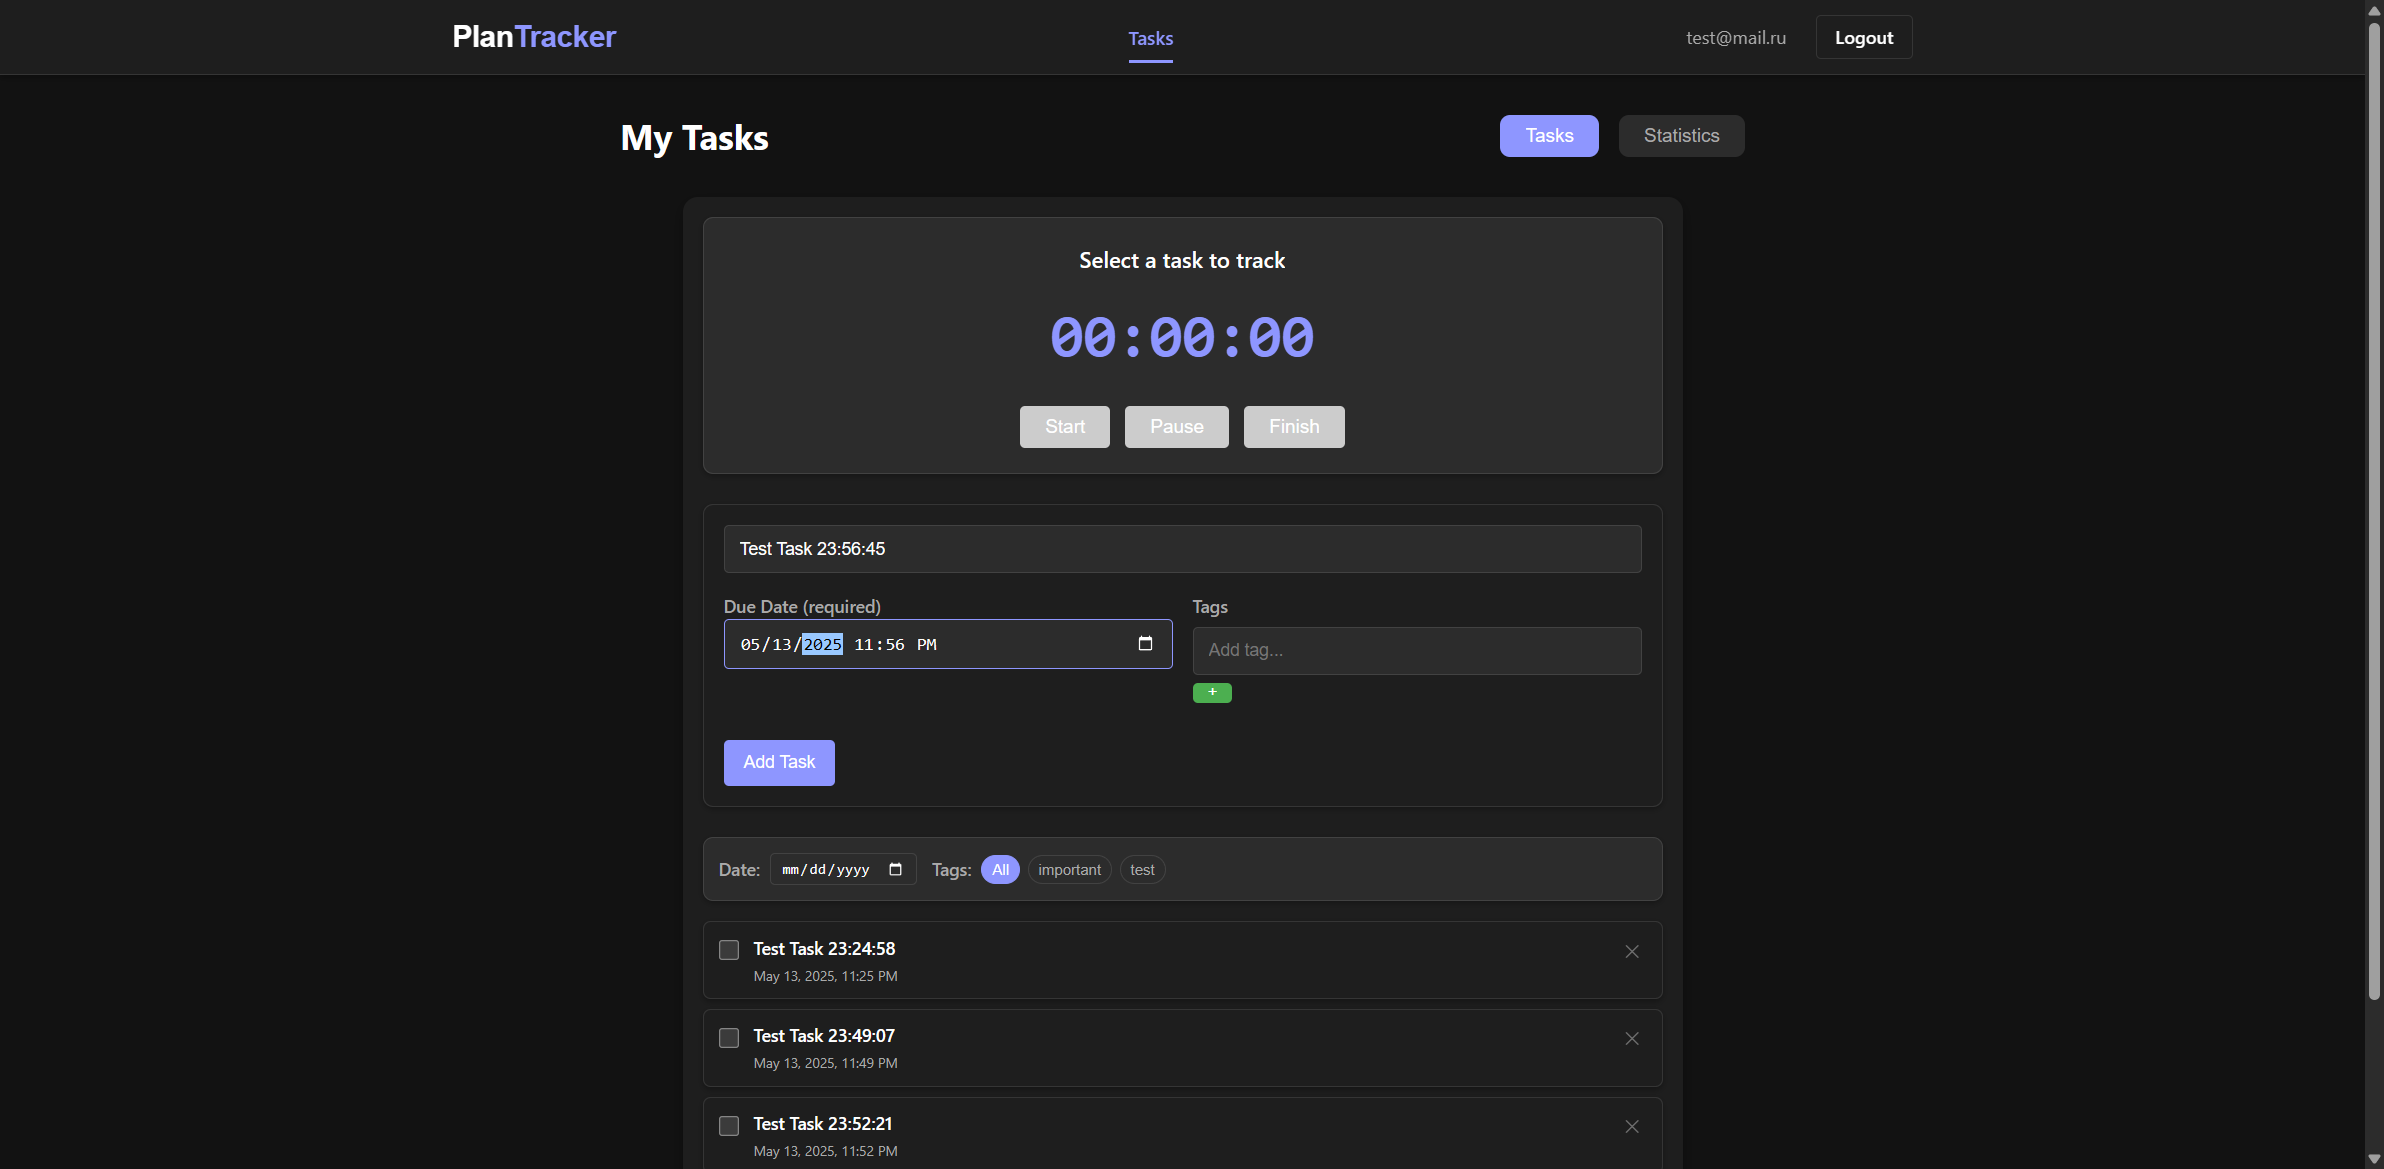
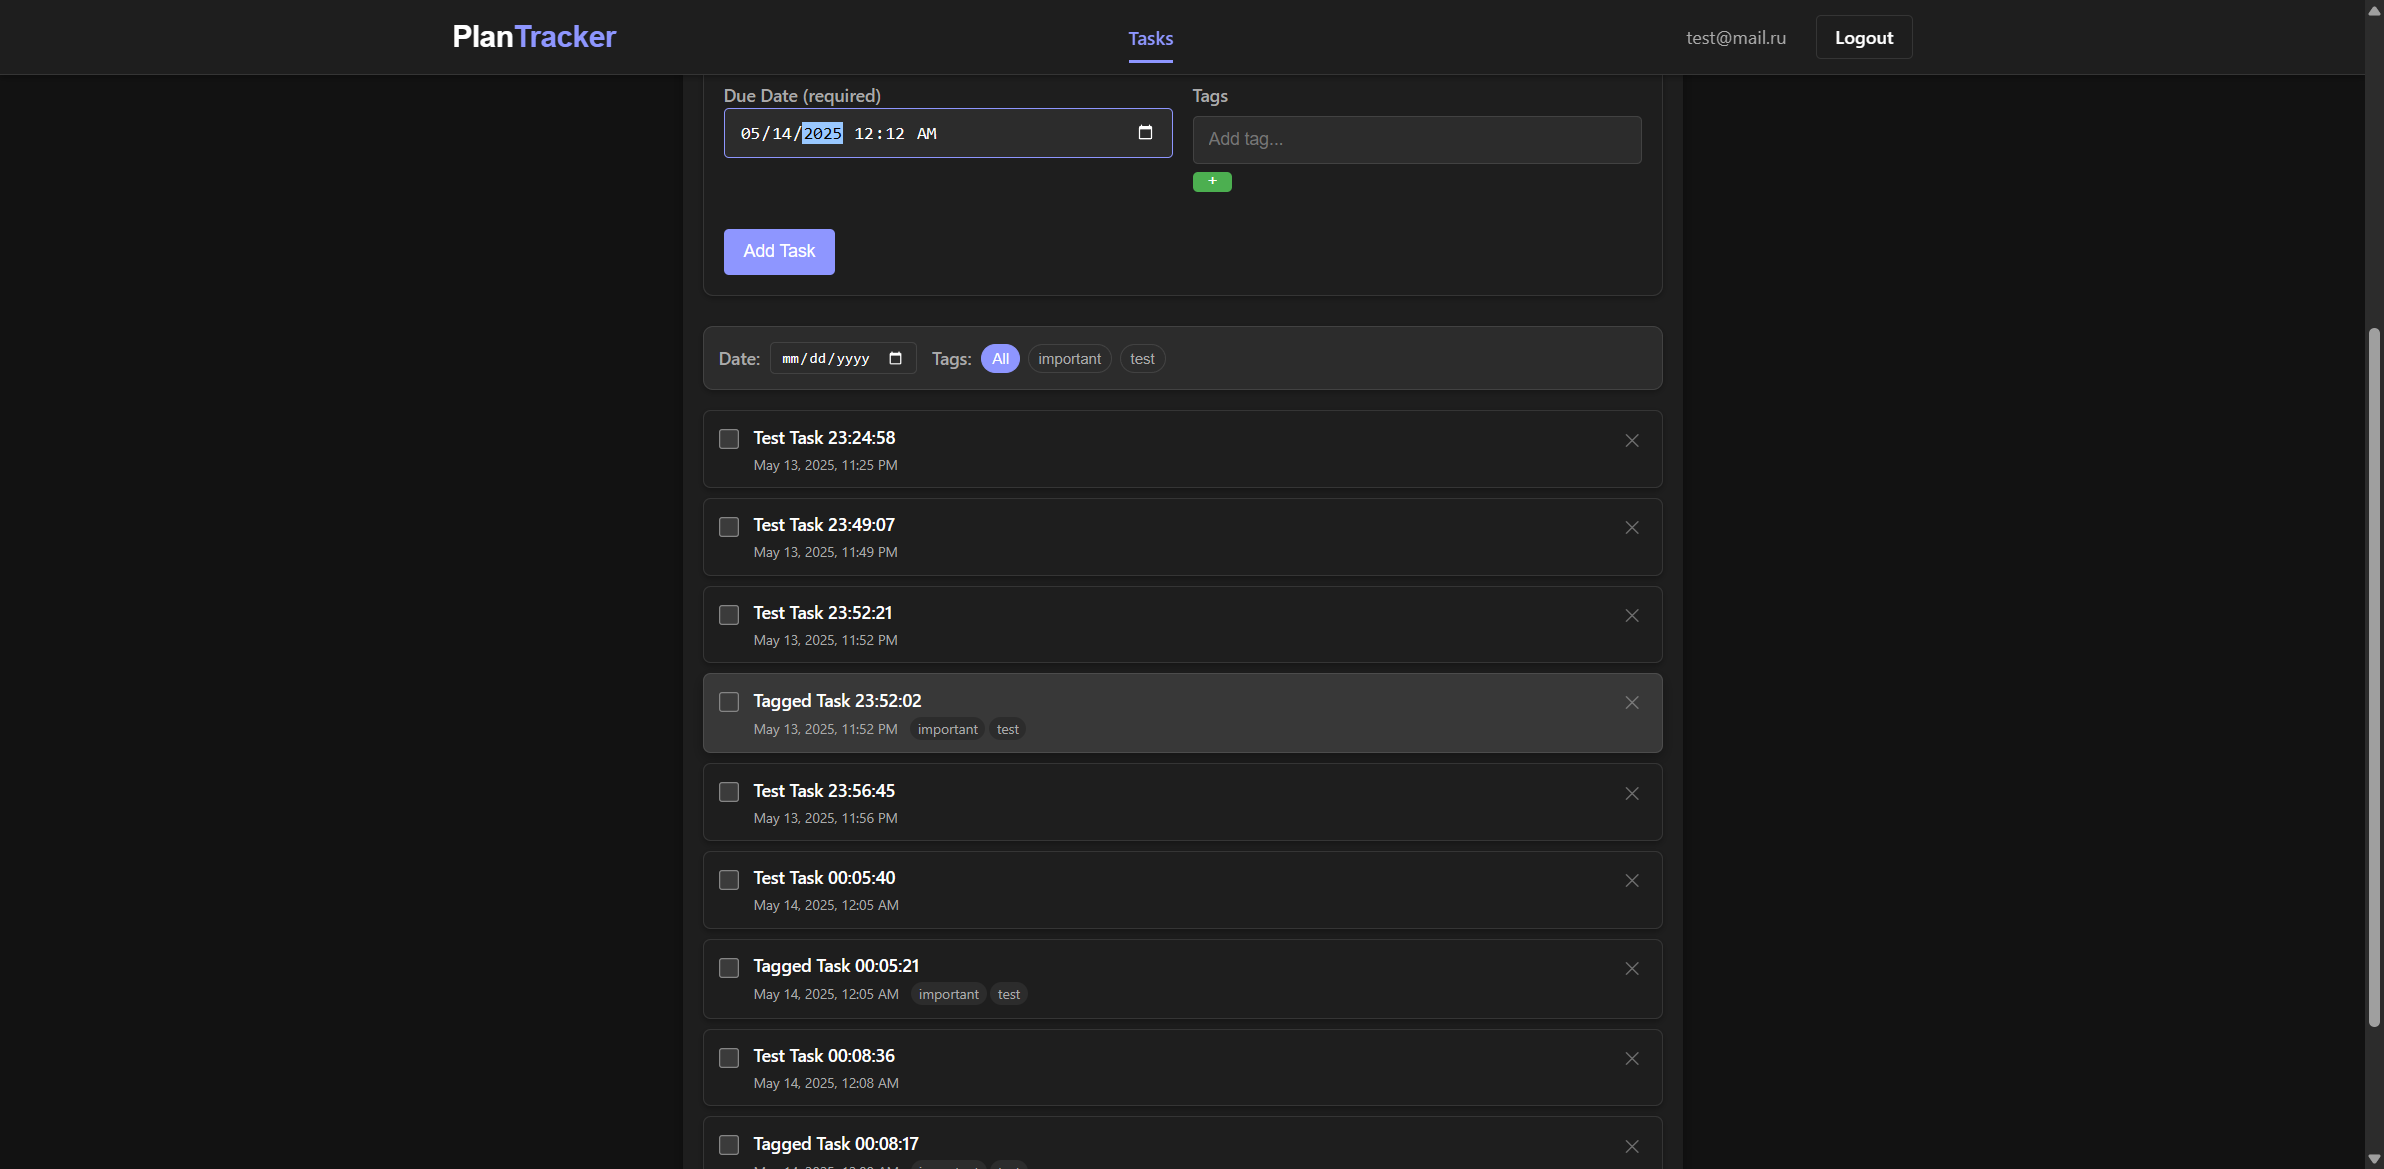
fix: e2e_tests fixed

diff --git a/frontend/e2e_tests/tests/test_tasks.py b/frontend/e2e_tests/tests/test_tasks.py
@@ -80,6 +80,37 @@ class TestTasks:
         current_count = tasks_page.get_task_count()
         assert current_count == initial_count, "Task should not be added with empty name"
     
+    def test_create_task_with_tags(self, driver: WebDriver):
+        """
+        Test scenario: Create a task with tags
+        Expected: Task is added with tags displayed
+        """
+        # Initialize the tasks page and navigate to it
+        tasks_page = TasksPage(driver).navigate()
+        
+        # Generate a unique task title with timestamp
+        task_title = f"Tagged Task {datetime.now().strftime('%H:%M:%S')}"
+        
+        # Record initial task count
+        initial_count = tasks_page.get_task_count()
+        
+        # Create task with tags
+        tasks_page.set_task_title(task_title)
+        tasks_page.set_due_date(days_from_now=1)
+        tasks_page.add_tag("important")
+        tasks_page.add_tag("test")
+        
+        # Submit the form
+        tasks_page.click_add_task()
+        
+        # Verify task count has increased
+        current_count = tasks_page.get_task_count()
+        assert current_count == initial_count + 1, "Task count should increase by 1"
+        
+        # Verify the task is in the list
+        task = tasks_page.get_task_by_title(task_title)
+        assert task is not None, f"Task with title '{task_title}' should be in the list"
+    
     def test_create_task_successfully(self, driver: WebDriver):
         """
         Test scenario: Create a task successfully
